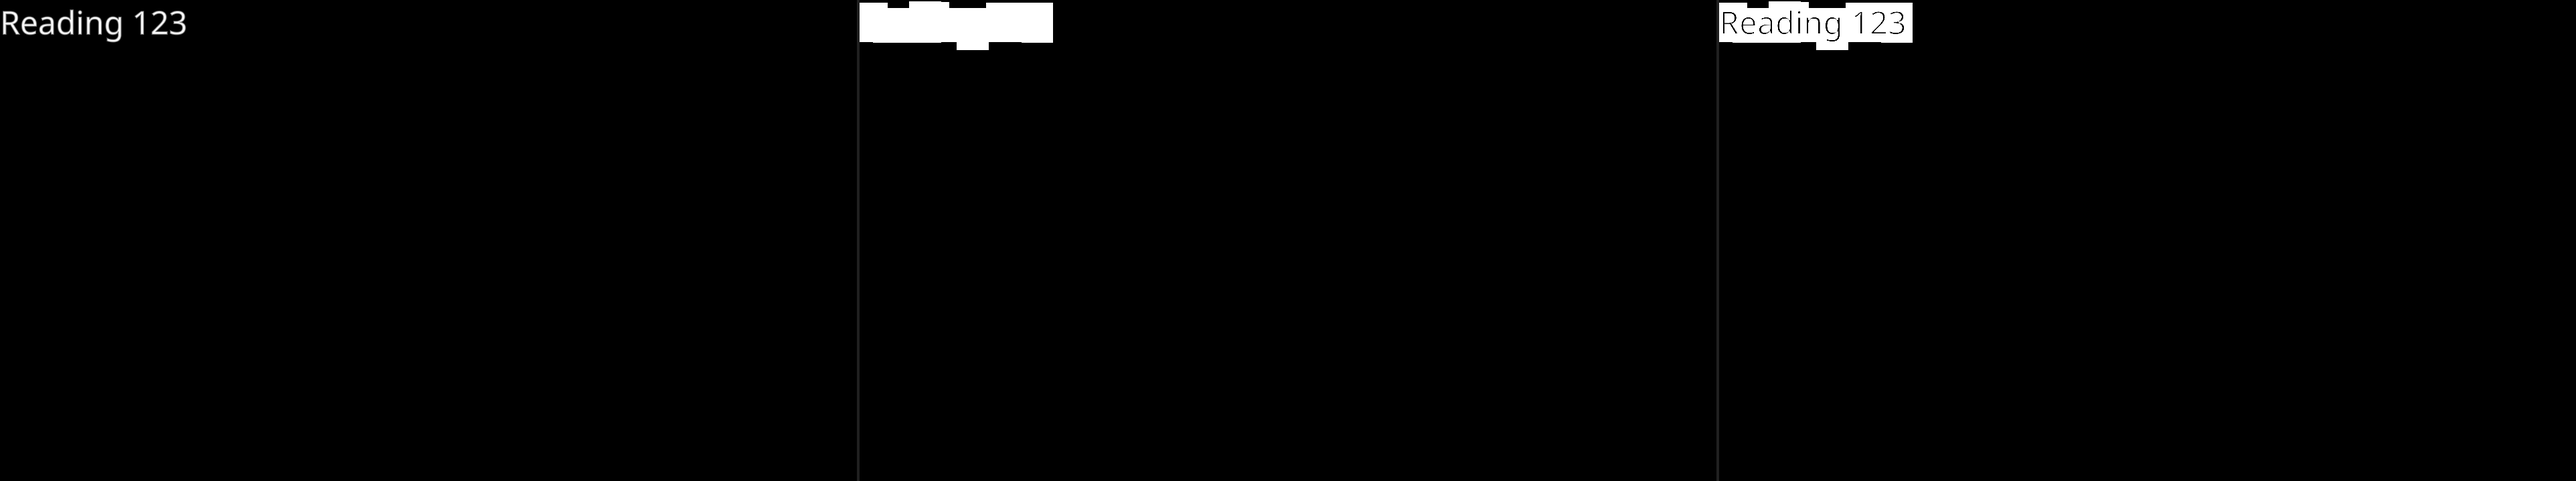
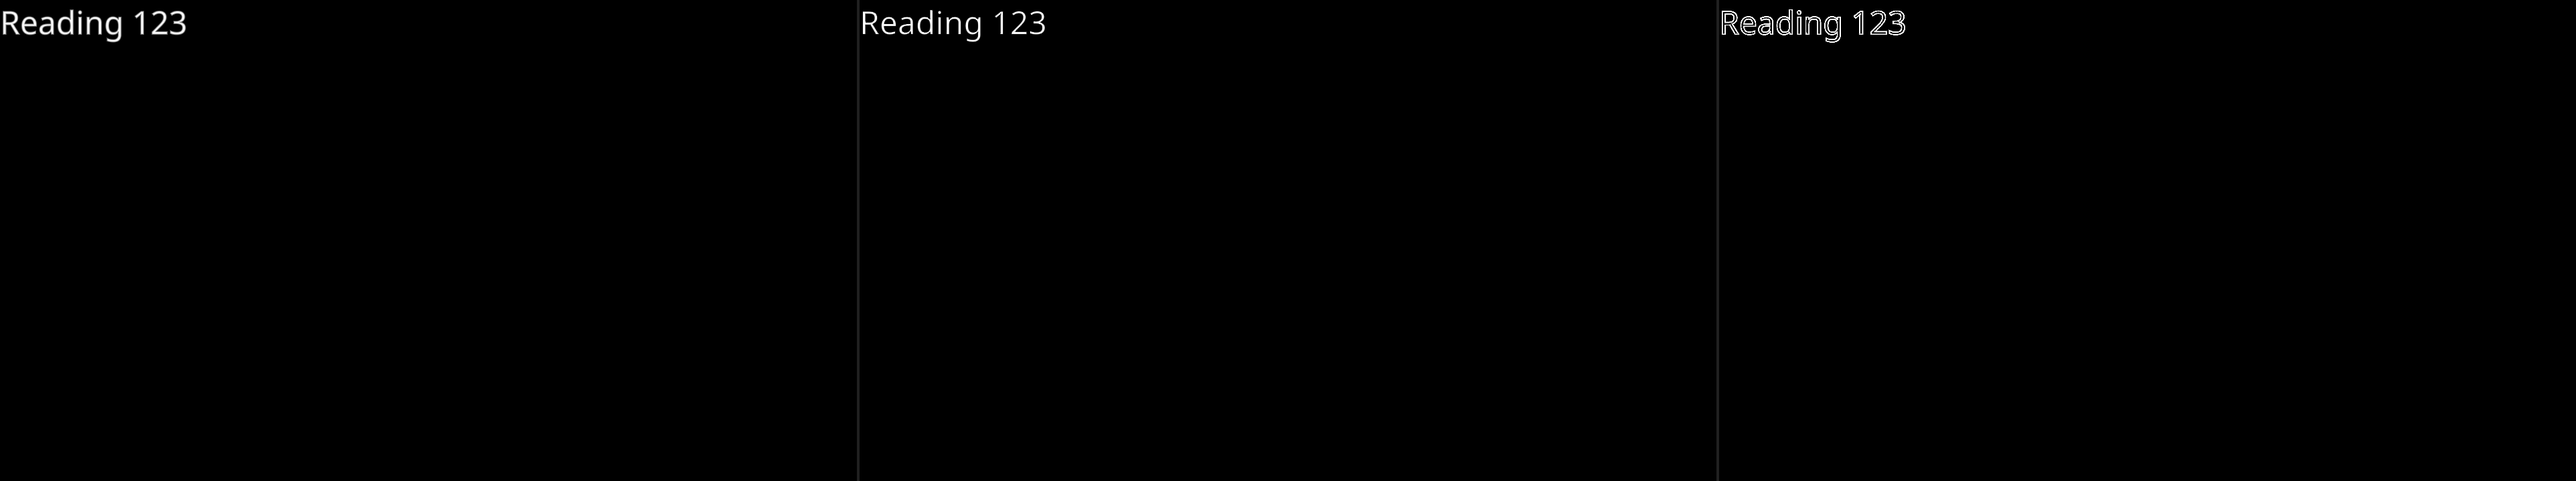
fix(render-arch): MSDF solid-white ROOT CAUSE — Canvas stripped UV1 (R2)
The Canvas only uploads vertex channels listed in additionalShaderChannels; UV1 (TEXCOORD1) is NOT included by default. So in the player the uber shader read UV1=0 -> glyphMode=0 (SDF) for every glyph, and an MSDF glyph on the RGBA32 array then sampled .a (=255 from the RGB24->RGBA32 copy) -> a SOLID WHITE BLOCK. (My EditMode CommandBuffer render passed UV1 directly, which is why it rendered a glyph and masked the bug; MsdfSharedArrayDiagTests proved atlas copy=exact, routing=correct, uber-given-correct-data=glyph.) Fix: UniText.UpdateRendering enables AdditionalCanvasShaderChannels.TexCoord1 on the canvas in the unified path. RESULT (production-shader diff, world-space 1280x720): MSDF nonBg 17188->3279 (legacy 4368), maxDelta 255->111, %px>2/255 1.74%->0.36%. All five cases now render correctly (no solid blocks); residual is a thin AA edge ring (unified slightly thinner): SDF maxD107/0.29%, MSDF 111/0.36%, color 107/0.64%, outline 255/0.53%, underlay 109/0.19%. Evidence PNGs refreshed. EditMode 193/0/1.

Changed region(s): [[0.3119, 0.0, 0.4366, 0.1222], [0.6549, 0.0, 0.7484, 0.1222]]

diff --git a/Tests/Editor/MsdfSharedArrayDiagTests.cs b/Tests/Editor/MsdfSharedArrayDiagTests.cs
@@ -59,6 +59,42 @@ namespace LightSide.Tests
 
                 // The COPY must preserve the field: shared median == legacy median at every texel.
                 Assert.LessOrEqual(maxMedianDelta, 1.5f / 255f, "RGB24->RGBA32 copy must preserve the MSDF field (median)");
+
+                // Now render the glyph through the REAL uber material (mode=1 MSDF) over the shared
+                // array and read back: with correct data, median3 must produce a GLYPH, not a solid
+                // block. A single quad covering the glyph rect's UV, UV1=(_, slice, 1, 0).
+                var uber = new Material(Shader.Find("UniText/Uber"));
+                uber.SetTexture("_MainTexArray", arr.Texture);
+                // Minimal style table (1 row, white face) so StyleTexel(0,*) is valid.
+                var st2 = new StyleTable(); st2.GetOrAdd(GlyphStyle.Default); var sTex = st2.Apply();
+                uber.SetTexture("_StyleTex", sTex); uber.SetFloat("_StyleTexWidth", st2.Width); uber.SetFloat("_StyleTexHeight", 1);
+
+                int QW = 64, QH = 64;
+                var rtq = new RenderTexture(QW, QH, 0, RenderTextureFormat.ARGB32); rtq.Create();
+                var mesh = new Mesh();
+                float u0 = (float)rect.x / font.AtlasSize, v0 = (float)rect.y / font.AtlasSize;
+                float u1 = (float)(rect.x + rect.width) / font.AtlasSize, v1 = (float)(rect.y + rect.height) / font.AtlasSize;
+                mesh.vertices = new[] { new Vector3(0,0,0), new Vector3(QW,0,0), new Vector3(QW,QH,0), new Vector3(0,QH,0) };
+                mesh.SetUVs(0, new System.Collections.Generic.List<Vector4> { new(u0,v0,0,0), new(u1,v0,0,0), new(u1,v1,0,0), new(u0,v1,0,0) });
+                mesh.SetUVs(1, new System.Collections.Generic.List<Vector4> { new(0,cellSlice,1,0), new(0,cellSlice,1,0), new(0,cellSlice,1,0), new(0,cellSlice,1,0) });
+                mesh.colors = new[] { Color.white, Color.white, Color.white, Color.white };
+                mesh.triangles = new[] { 0,1,2, 0,2,3 };
+                var cb = new UnityEngine.Rendering.CommandBuffer();
+                cb.SetRenderTarget(rtq); cb.ClearRenderTarget(true, true, Color.black);
+                cb.SetViewProjectionMatrices(Matrix4x4.identity, Matrix4x4.Ortho(0, QW, 0, QH, -1, 1));
+                cb.SetGlobalFloat("unity_GUIZTestMode", (float)UnityEngine.Rendering.CompareFunction.Always);
+                cb.DrawMesh(mesh, Matrix4x4.identity, uber, 0, -1);
+                Graphics.ExecuteCommandBuffer(cb); cb.Release();
+                var prevRT = RenderTexture.active; RenderTexture.active = rtq;
+                var shot = new Texture2D(QW, QH, TextureFormat.RGBA32, false); shot.ReadPixels(new Rect(0,0,QW,QH),0,0); shot.Apply();
+                RenderTexture.active = prevRT;
+                var sp = shot.GetPixels32(); int lit = 0, full = 0;
+                foreach (var p in sp) { if (p.r>8||p.g>8||p.b>8) lit++; if (p.r>240&&p.g>240&&p.b>240) full++; }
+                Debug.Log($"[MSDF UBER] quad={QW*QH} lit={lit} fullWhite={full} (a glyph lights SOME, not all; a solid block lights ~all)");
+                RenderTexture.active = null; rtq.Release(); Object.DestroyImmediate(rtq); Object.DestroyImmediate(shot); Object.DestroyImmediate(mesh); Object.DestroyImmediate(uber); st2.Dispose();
+
+                // A correctly reconstructed glyph lights a MINORITY of the quad; a solid block lights most.
+                Assert.Less(lit, QW * QH * 0.9f, $"uber MSDF must render a glyph, not a solid block (lit {lit}/{QW*QH})");
             }
             finally { if (font != null) Object.DestroyImmediate(font); SharedGlyphAtlas.Clear(); }
         }

diff --git a/Runtime/Core/Component/UniText.cs b/Runtime/Core/Component/UniText.cs
@@ -1220,6 +1220,16 @@ namespace LightSide
             // UpdateSubMeshes exactly as before (default — guards the existing test suite).
             if (UseUnifiedRenderer)
             {
+                // CRITICAL: the uber shader reads per-glyph (sliceIdx, glyphMode, styleIdx) from UV1
+                // (TEXCOORD1). A Canvas only uploads the vertex channels in additionalShaderChannels —
+                // UV1 is NOT included by default, so without this the shader reads UV1 = 0 →
+                // glyphMode = 0 (SDF) for EVERY glyph, and an MSDF glyph on the RGBA32 array then
+                // samples .a (= 255 from the RGB24→RGBA32 copy) → a SOLID WHITE BLOCK. Enabling
+                // TexCoord1 lets the per-glyph data reach the shader.
+                var cv = canvas;
+                if (cv != null)
+                    cv.additionalShaderChannels |= AdditionalCanvasShaderChannels.TexCoord1;
+
                 unifiedBuilder ??= new UnifiedRenderBuilder();
                 unifiedRenderData ??= new List<UniTextRenderData>(2);
                 var style = AppearanceStyleShim.StyleFor(fontProvider?.Appearance, fontProvider?.MainFont);
